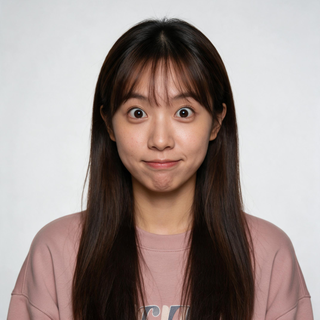
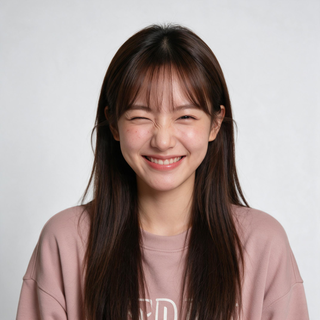
头像重出一版：都在笑，不许摆冷脸；开局先亮六张号码牌
- 一桌准备互相骗的人，一个个绷着脸拍证件照太没气氛了。12 张全部重生成：
  女性明艳漂亮、男性英俊，表情要么笑得好看、要么是那种心里有事的坏笑/邪魅笑，
  提示词里把「绝不面无表情、不冷峻、不严肃」写成硬要求
- 事件流开局那条「游戏开始」改成 1–6 号的六连号码牌，座位清单那半句在 UI 上摘掉
  （文本本身不动，agent 的上下文还要用）

Changed region(s): [[0.0, 0.0312, 1.0, 1.0], [0.3125, 0.7812, 0.3438, 0.875], [0.3438, 0.5625, 0.375, 0.625]]

diff --git a/frontend/app.js b/frontend/app.js
@@ -183,6 +183,15 @@ function rowHTML(ev) {
   }
   if (ev.kind === "system" && ev.text.startsWith("存活玩家"))
     return `<div class="info">${esc(ev.text)}</div>`;
+  if (ev.kind === "system" && ev.text.startsWith("游戏开始")) {
+    // 开局先把 6 个人摆出来。座位清单本来就写在这条事件的文本里（agent 的上下文要用），
+    // 但 UI 上有头像就够了，把那半句摘掉，只留配置
+    const roster = [1, 2, 3, 4, 5, 6].map((seat) => face(seat)).join("");
+    const note = ev.text.replace(/共 ?6 ?名玩家：[^。]*。/, "");
+    return `<div class="row"><div class="bubble plain roster-box">
+      <div class="roster">${roster}</div>
+      <div class="roster-note">${esc(note)}</div></div></div>`;
+  }
   if (ev.kind === "speech") {
     const seat = ev.seat, role = roleOf(seat);
     const body = ev.text.replace(/^[^：]*：/, "");

diff --git a/frontend/style.css b/frontend/style.css
@@ -68,6 +68,11 @@ button{font:inherit;cursor:pointer;}
 .wave b:nth-child(3){animation-delay:.3s;}
 @keyframes wv{0%,100%{height:4px}50%{height:12px}}
 .bubble.judgeline{background:#f4f2f8;color:#4b3f6b;}
+/* 开局的六连号码牌 */
+.roster-box{width:100%;}
+.roster{display:flex;flex-wrap:wrap;gap:8px;margin-bottom:9px;}
+.roster-note{font-size:12px;color:var(--dim);}
+
 /* ---------- 玩家头像：号码压在下半部当角标 ---------- */
 .face{position:relative;display:inline-block;flex:0 0 auto;width:58px;height:58px;overflow:hidden;
       border-radius:12px;background:#efece6;border:1px solid var(--line);line-height:0;}

diff --git a/scripts/gen_avatars.py b/scripts/gen_avatars.py
@@ -19,27 +19,42 @@ ORIGINAL = ROOT / "assets" / "avatars-original"
 PUBLIC = ROOT / "frontend" / "img" / "avatars"
 EDGE = 320
 
-# 摄影参数统一，只换人 —— 12 张摆在一起才像同一组照片而不是网图拼盘
+# 摄影参数统一，只换人 —— 12 张摆在一起才像同一组照片而不是网图拼盘。
+# 表情是硬要求：这是一桌准备互相骗的人，一个个绷着脸拍证件照就没气氛了，
+# 所以每个人要么笑得好看、要么笑得让人心里发毛，不许面无表情。
 STYLE = (
-    "写实人像摄影，正面头肩特写，肩部以上，人物居中，头顶留白，直视镜头，"
+    "写实人像摄影，容貌出众，正面头肩特写，肩部以上，人物居中，头顶留白，直视镜头，"
+    "表情生动，绝不面无表情、不冷峻、不严肃，"
     "柔和的影棚柔光，浅灰白色纯色背景，85mm 镜头浅景深，真实皮肤质感与毛孔细节，"
     "自然肤色，构图正方形，无文字无水印"
 )
 
 # (key, seed, 这个人长什么样)
 PEOPLE: list[tuple[str, int, str]] = [
-    ("f1", 1101, "中国年轻女性，二十五岁，齐肩黑色直发，干净通透的淡妆，嘴角微微上扬，米白色针织衫"),
-    ("f2", 1102, "中国年轻女性，二十二岁，高马尾，圆润清秀的脸，眼神明亮带笑意，浅蓝色衬衫"),
-    ("f3", 1103, "中国女性，三十岁，齐耳短发，冷静克制的表情，轮廓分明，黑色西装外套内搭白衬衫"),
-    ("f4", 1104, "中国年轻女性，二十七岁，微卷长发披肩，柔和的鹅蛋脸，安静的浅笑，燕麦色高领毛衣"),
-    ("f5", 1105, "中国年轻女性，二十四岁，空气刘海及腰长直发，圆眼睛，俏皮的神情，藕粉色卫衣"),
-    ("f6", 1106, "中国女性，三十二岁，低盘发，干练利落，眉眼沉稳，深灰色西装"),
-    ("m1", 1201, "中国年轻男性，二十六岁，利落短发，干净的下颌线，温和的微笑，浅灰色圆领 T 恤"),
-    ("m2", 1202, "中国年轻男性，二十三岁，蓬松碎盖发型，清秀白净，略带腼腆，白色衬衫"),
-    ("m3", 1203, "中国男性，三十五岁，背头，浅浅的胡茬，沉稳锐利的眼神，藏青色西装白衬衫"),
-    ("m4", 1204, "中国年轻男性，二十八岁，寸头，轮廓硬朗，表情松弛自信，黑色夹克"),
-    ("m5", 1205, "中国年轻男性，二十五岁，细边框眼镜，斯文书卷气，浅笑，浅蓝色牛津纺衬衫"),
-    ("m6", 1206, "中国男性，三十岁，中分微卷短发，深邃的眼睛，不苟言笑，焦糖色针织衫"),
+    ("f1", 2101, "非常漂亮的中国年轻女性，二十五岁，明星级的精致五官，齐肩黑色直发，通透的淡妆，"
+                 "灿烂的笑容，眼睛弯成月牙，米白色针织衫"),
+    ("f2", 2102, "非常漂亮的中国年轻女性，二十二岁，清纯甜美，高马尾，开心地笑着露出牙齿，"
+                 "眼神明亮有神采，浅蓝色衬衫"),
+    ("f3", 2103, "非常漂亮的中国女性，三十岁，明艳大气的长相，齐耳短发，嘴角挑起的狡黠坏笑，"
+                 "眼神里带着一点算计和挑衅，黑色西装内搭白衬衫"),
+    ("f4", 2104, "非常漂亮的中国年轻女性，二十七岁，温柔的鹅蛋脸，微卷长发披肩，"
+                 "含笑的浅笑，眼神柔和，燕麦色高领毛衣"),
+    ("f5", 2105, "非常漂亮的中国年轻女性，二十四岁，甜美可爱，空气刘海及腰长直发，"
+                 "俏皮地眯眼笑，藕粉色卫衣"),
+    ("f6", 2106, "非常漂亮的中国女性，三十二岁，成熟妩媚的长相，低盘发，"
+                 "似笑非笑的邪魅笑容，单边嘴角上扬，深灰色西装"),
+    ("m1", 2201, "非常帅气的中国年轻男性，二十六岁，硬朗清爽的五官，利落短发，"
+                 "阳光爽朗的笑容，浅灰色圆领 T 恤"),
+    ("m2", 2202, "非常帅气的中国年轻男性，二十三岁，清秀白净的少年感，蓬松碎盖发型，"
+                 "腼腆又开心地笑，白色衬衫"),
+    ("m3", 2203, "非常帅气的中国男性，三十五岁，成熟有魅力，背头，浅浅的胡茬，"
+                 "意味深长的坏笑，眼神里藏着东西，藏青色西装白衬衫"),
+    ("m4", 2204, "非常帅气的中国年轻男性，二十八岁，轮廓分明的硬汉长相，寸头，"
+                 "咧嘴自信地笑，黑色夹克"),
+    ("m5", 2205, "非常帅气的中国年轻男性，二十五岁，斯文清俊，细边框眼镜，"
+                 "温和的笑容，眼睛带笑，浅蓝色牛津纺衬衫"),
+    ("m6", 2206, "非常帅气的中国男性，三十岁，深邃立体的五官，中分微卷短发，"
+                 "嘴角勾起的邪气笑容，眼神玩味，焦糖色针织衫"),
 ]
 
 
